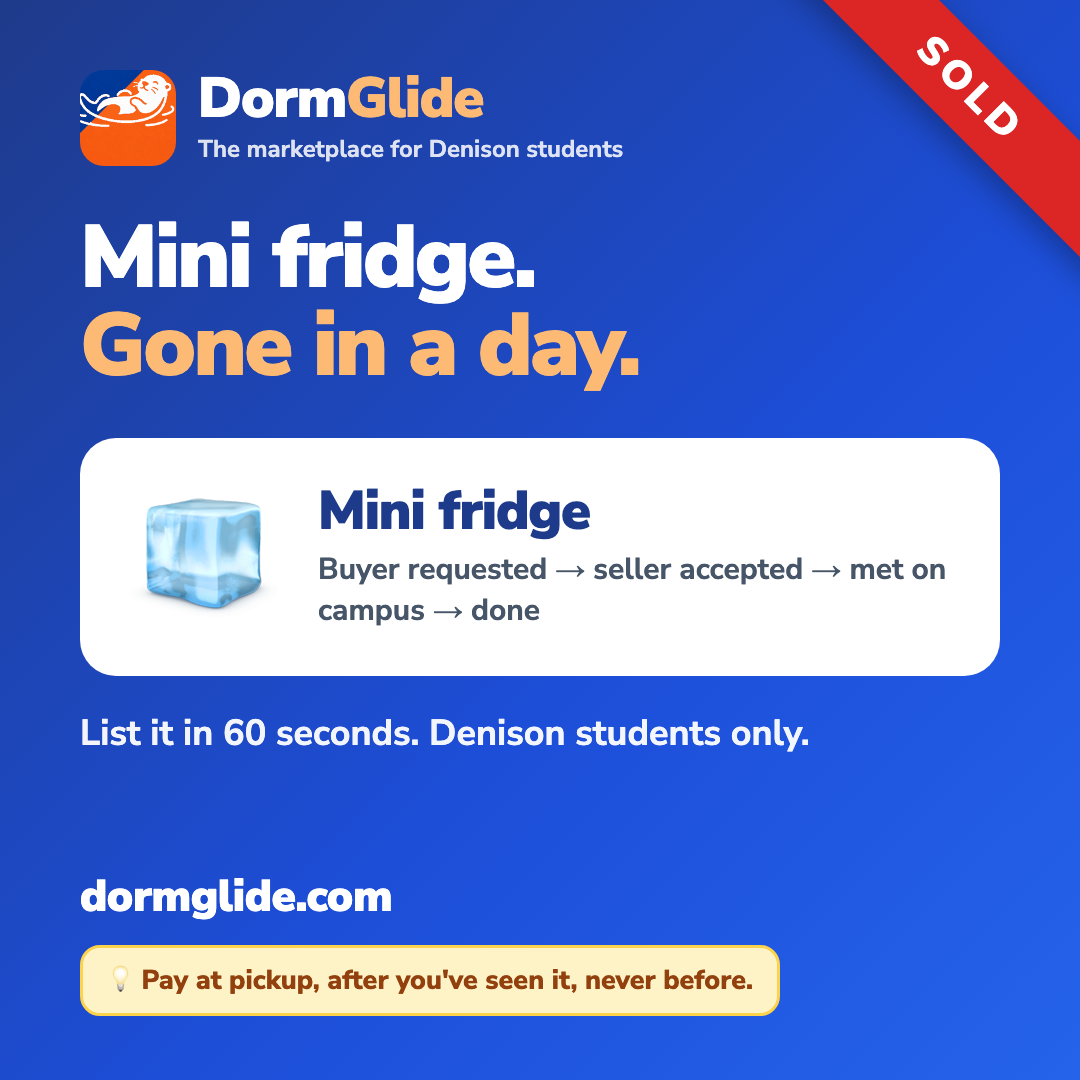
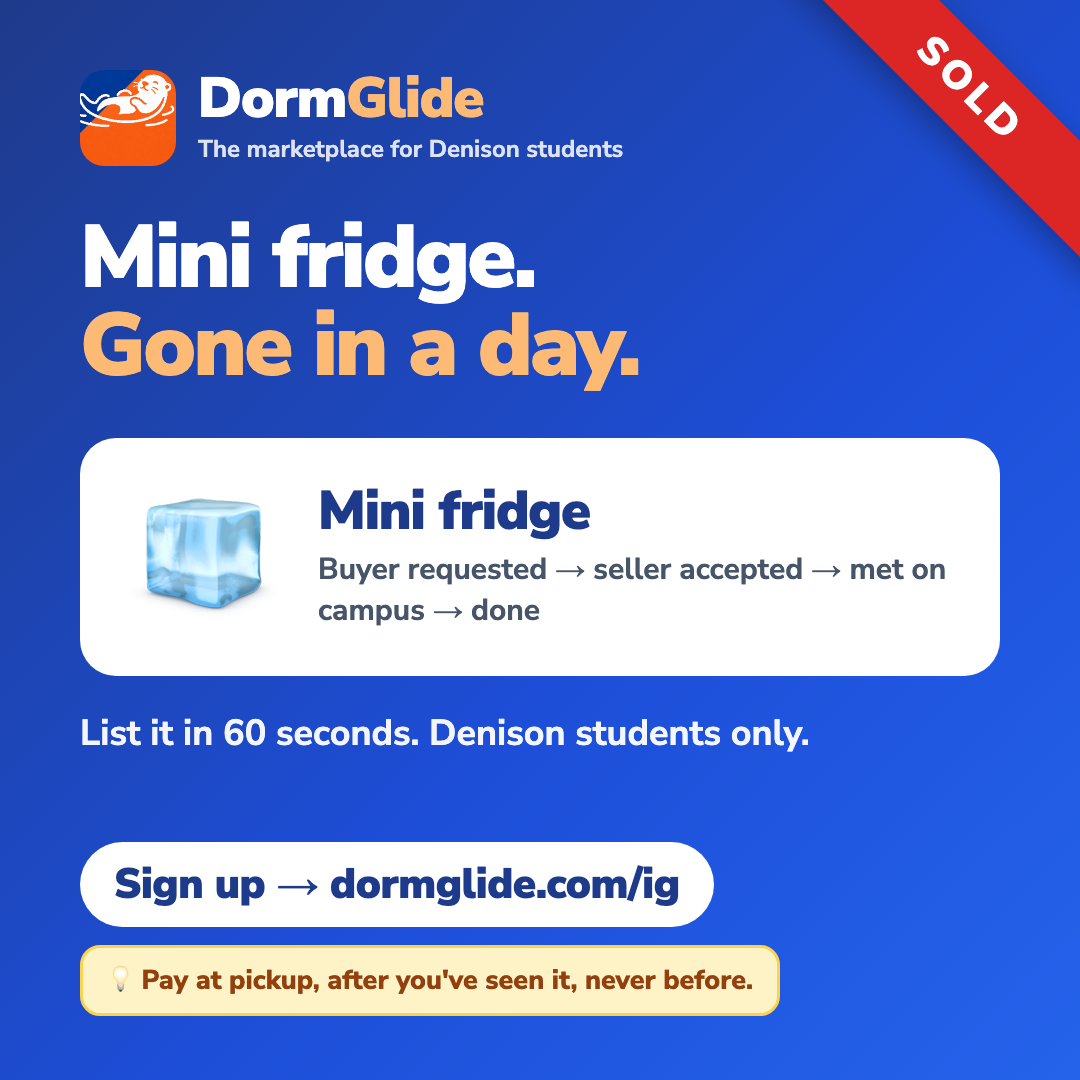
Instagram: short sign-up link dormglide.com/ig on every image; drop 'link in bio'

Changed region(s): [[0.0611, 0.7639, 0.6722, 0.8556]]

diff --git a/marketing/instagram/stories/s2-how-it-works.html b/marketing/instagram/stories/s2-how-it-works.html
@@ -20,8 +20,8 @@ p.lead{font-size:42px;line-height:1.32;font-weight:700;margin:44px 0 0;opacity:.
 .ribbon{position:absolute;top:120px;right:-130px;width:520px;transform:rotate(45deg);background:#dc2626;color:#fff;text-align:center;font-size:44px;font-weight:900;letter-spacing:.12em;padding:16px 0;box-shadow:0 10px 30px rgba(0,0,0,.3)}
 .otter{position:absolute;right:60px;top:560px;width:460px;filter:drop-shadow(0 12px 30px rgba(0,0,0,.25))}
 .bottom{margin-top:auto;display:flex;flex-direction:column;gap:22px}
-.cta{background:#fff;color:#1e3a8a;border-radius:999px;padding:30px 44px;font-size:44px;font-weight:900;text-align:center;letter-spacing:-.01em}
+.cta{background:#fff;color:#1e3a8a;border-radius:999px;padding:30px 44px;font-size:60px;font-weight:900;text-align:center;letter-spacing:-.01em}
 .orange .cta{color:#c2410c}
-.url{font-size:40px;font-weight:800;text-align:center;opacity:.95}
+.url{font-size:34px;font-weight:800;text-align:center;opacity:.95}
 .rule{background:#fef3c7;color:#92400e;border:3px solid #fcd34d;border-radius:22px;padding:18px 26px;font-size:30px;font-weight:800;text-align:center}
-</style></head><body><div class="story"><div class="top"><img src="otter-mark.png"><div><div class="wm">Dorm<em>Glide</em></div><div class="tag">The marketplace for Denison students</div></div></div><h1>How it works.<br><span>Three steps.</span></h1><div class="steps"><div class="step"><div class="n">1</div><div class="t">Sign up with your @denison.edu email</div></div><div class="step"><div class="n">2</div><div class="t">Post it, or set a Wishlist alert for what you need</div></div><div class="step"><div class="n">3</div><div class="t">Chat, meet on campus, pay at pickup</div></div></div><div class="bottom"><div class="cta">Try it now ↗</div><div class="url">dormglide.com · link in bio</div><div class="rule">💡 Pay at pickup, after you've seen it, never before.</div></div></div></body></html>
+</style></head><body><div class="story"><div class="top"><img src="otter-mark.png"><div><div class="wm">Dorm<em>Glide</em></div><div class="tag">The marketplace for Denison students</div></div></div><h1>How it works.<br><span>Three steps.</span></h1><div class="steps"><div class="step"><div class="n">1</div><div class="t">Sign up with your @denison.edu email</div></div><div class="step"><div class="n">2</div><div class="t">Post it, or set a Wishlist alert for what you need</div></div><div class="step"><div class="n">3</div><div class="t">Chat, meet on campus, pay at pickup</div></div></div><div class="bottom"><div class="cta">dormglide.com/ig</div><div class="url">Type it in your browser. Takes one minute.</div><div class="rule">💡 Pay at pickup, after you've seen it, never before.</div></div></div></body></html>

diff --git a/marketing/instagram/stories/s4-glyde.html b/marketing/instagram/stories/s4-glyde.html
@@ -20,8 +20,8 @@ p.lead{font-size:42px;line-height:1.32;font-weight:700;margin:44px 0 0;opacity:.
 .ribbon{position:absolute;top:120px;right:-130px;width:520px;transform:rotate(45deg);background:#dc2626;color:#fff;text-align:center;font-size:44px;font-weight:900;letter-spacing:.12em;padding:16px 0;box-shadow:0 10px 30px rgba(0,0,0,.3)}
 .otter{position:absolute;right:60px;top:560px;width:460px;filter:drop-shadow(0 12px 30px rgba(0,0,0,.25))}
 .bottom{margin-top:auto;display:flex;flex-direction:column;gap:22px}
-.cta{background:#fff;color:#1e3a8a;border-radius:999px;padding:30px 44px;font-size:44px;font-weight:900;text-align:center;letter-spacing:-.01em}
+.cta{background:#fff;color:#1e3a8a;border-radius:999px;padding:30px 44px;font-size:60px;font-weight:900;text-align:center;letter-spacing:-.01em}
 .orange .cta{color:#c2410c}
-.url{font-size:40px;font-weight:800;text-align:center;opacity:.95}
+.url{font-size:34px;font-weight:800;text-align:center;opacity:.95}
 .rule{background:#fef3c7;color:#92400e;border:3px solid #fcd34d;border-radius:22px;padding:18px 26px;font-size:30px;font-weight:800;text-align:center}
-</style></head><body><div class="story orange"><div class="top"><img src="otter-mark.png"><div><div class="wm">Dorm<em>Glide</em></div><div class="tag">Glyde · skills, by students</div></div></div><h1>Need a hand?<br><span>Book a student.</span></h1><div class="steps"><div class="step"><div class="n">🚚</div><div class="t">Move-in &amp; move-out help</div></div><div class="step"><div class="n">📚</div><div class="t">Tutoring · Rides · Food &amp; drink · Hair</div></div><div class="step"><div class="n">✨</div><div class="t">Or offer your skill and get paid</div></div></div><div class="bottom"><div class="cta">Open Glyde ↗</div><div class="url">dormglide.com · link in bio</div><div class="rule">💡 Switch to Glyde inside the app.</div></div></div></body></html>
+</style></head><body><div class="story orange"><div class="top"><img src="otter-mark.png"><div><div class="wm">Dorm<em>Glide</em></div><div class="tag">Glyde · skills, by students</div></div></div><h1>Need a hand?<br><span>Book a student.</span></h1><div class="steps"><div class="step"><div class="n">🚚</div><div class="t">Move-in &amp; move-out help</div></div><div class="step"><div class="n">📚</div><div class="t">Tutoring · Rides · Food &amp; drink · Hair</div></div><div class="step"><div class="n">✨</div><div class="t">Or offer your skill and get paid</div></div></div><div class="bottom"><div class="cta">dormglide.com/ig</div><div class="url">Type it in your browser. Takes one minute.</div><div class="rule">💡 Switch to Glyde inside the app.</div></div></div></body></html>

diff --git a/marketing/instagram/stories/s5-wishlist.html b/marketing/instagram/stories/s5-wishlist.html
@@ -20,8 +20,8 @@ p.lead{font-size:42px;line-height:1.32;font-weight:700;margin:44px 0 0;opacity:.
 .ribbon{position:absolute;top:120px;right:-130px;width:520px;transform:rotate(45deg);background:#dc2626;color:#fff;text-align:center;font-size:44px;font-weight:900;letter-spacing:.12em;padding:16px 0;box-shadow:0 10px 30px rgba(0,0,0,.3)}
 .otter{position:absolute;right:60px;top:560px;width:460px;filter:drop-shadow(0 12px 30px rgba(0,0,0,.25))}
 .bottom{margin-top:auto;display:flex;flex-direction:column;gap:22px}
-.cta{background:#fff;color:#1e3a8a;border-radius:999px;padding:30px 44px;font-size:44px;font-weight:900;text-align:center;letter-spacing:-.01em}
+.cta{background:#fff;color:#1e3a8a;border-radius:999px;padding:30px 44px;font-size:60px;font-weight:900;text-align:center;letter-spacing:-.01em}
 .orange .cta{color:#c2410c}
-.url{font-size:40px;font-weight:800;text-align:center;opacity:.95}
+.url{font-size:34px;font-weight:800;text-align:center;opacity:.95}
 .rule{background:#fef3c7;color:#92400e;border:3px solid #fcd34d;border-radius:22px;padding:18px 26px;font-size:30px;font-weight:800;text-align:center}
-</style></head><body><div class="story"><div class="top"><img src="otter-mark.png"><div><div class="wm">Dorm<em>Glide</em></div><div class="tag">The marketplace for Denison students</div></div></div><h1>Looking for<br><span>something?</span></h1><p class="lead">Set a Wishlist alert. The moment a matching item is posted, we email you. First come, first served. 🔔</p><div class="steps"><div class="step"><div class="n">🔔</div><div class="t">Wishlist → Add alert → "mini fridge under $50"</div></div></div><div class="bottom"><div class="cta">Set an alert ↗</div><div class="url">dormglide.com · link in bio</div><div class="rule">💡 Pay at pickup, after you've seen it, never before.</div></div></div></body></html>
+</style></head><body><div class="story"><div class="top"><img src="otter-mark.png"><div><div class="wm">Dorm<em>Glide</em></div><div class="tag">The marketplace for Denison students</div></div></div><h1>Looking for<br><span>something?</span></h1><p class="lead">Set a Wishlist alert. The moment a matching item is posted, we email you. First come, first served. 🔔</p><div class="steps"><div class="step"><div class="n">🔔</div><div class="t">Wishlist → Add alert → "mini fridge under $50"</div></div></div><div class="bottom"><div class="cta">dormglide.com/ig</div><div class="url">Type it in your browser. Takes one minute.</div><div class="rule">💡 Pay at pickup, after you've seen it, never before.</div></div></div></body></html>

diff --git a/marketing/instagram/stories/s1-what-is-dormglide.html b/marketing/instagram/stories/s1-what-is-dormglide.html
@@ -20,8 +20,8 @@ p.lead{font-size:42px;line-height:1.32;font-weight:700;margin:44px 0 0;opacity:.
 .ribbon{position:absolute;top:120px;right:-130px;width:520px;transform:rotate(45deg);background:#dc2626;color:#fff;text-align:center;font-size:44px;font-weight:900;letter-spacing:.12em;padding:16px 0;box-shadow:0 10px 30px rgba(0,0,0,.3)}
 .otter{position:absolute;right:70px;top:1090px;width:430px;filter:drop-shadow(0 12px 30px rgba(0,0,0,.25))}
 .bottom{margin-top:auto;display:flex;flex-direction:column;gap:22px}
-.cta{background:#fff;color:#1e3a8a;border-radius:999px;padding:30px 44px;font-size:44px;font-weight:900;text-align:center;letter-spacing:-.01em}
+.cta{background:#fff;color:#1e3a8a;border-radius:999px;padding:30px 44px;font-size:60px;font-weight:900;text-align:center;letter-spacing:-.01em}
 .orange .cta{color:#c2410c}
-.url{font-size:40px;font-weight:800;text-align:center;opacity:.95}
+.url{font-size:34px;font-weight:800;text-align:center;opacity:.95}
 .rule{background:#fef3c7;color:#92400e;border:3px solid #fcd34d;border-radius:22px;padding:18px 26px;font-size:30px;font-weight:800;text-align:center}
-</style></head><body><div class="story"><div class="top"><img src="otter-mark.png"><div><div class="wm">Dorm<em>Glide</em></div><div class="tag">The marketplace for Denison students</div></div></div><img class="otter" src="otter-hero-white.png"><h1>Your campus.<br>Your stuff.<br><span>Your skills.</span></h1><p class="lead">Buy &amp; sell dorm stuff with Denison students. Book tutors, rides, and move-in help. Free, no fees, campus only.</p><div class="bottom"><div class="cta">Sign up in 60 seconds ↗</div><div class="url">dormglide.com · link in bio</div><div class="rule">💡 Pay at pickup, after you've seen it, never before.</div></div></div></body></html>
+</style></head><body><div class="story"><div class="top"><img src="otter-mark.png"><div><div class="wm">Dorm<em>Glide</em></div><div class="tag">The marketplace for Denison students</div></div></div><img class="otter" src="otter-hero-white.png"><h1>Your campus.<br>Your stuff.<br><span>Your skills.</span></h1><p class="lead">Buy &amp; sell dorm stuff with Denison students. Book tutors, rides, and move-in help. Free, no fees, campus only.</p><div class="bottom"><div class="cta">dormglide.com/ig</div><div class="url">Type it in your browser. Takes one minute.</div><div class="rule">💡 Pay at pickup, after you've seen it, never before.</div></div></div></body></html>

diff --git a/marketing/instagram/stories/s3-sold-ac.html b/marketing/instagram/stories/s3-sold-ac.html
@@ -20,8 +20,8 @@ p.lead{font-size:42px;line-height:1.32;font-weight:700;margin:44px 0 0;opacity:.
 .ribbon{position:absolute;top:120px;right:-130px;width:520px;transform:rotate(45deg);background:#dc2626;color:#fff;text-align:center;font-size:44px;font-weight:900;letter-spacing:.12em;padding:16px 0;box-shadow:0 10px 30px rgba(0,0,0,.3)}
 .otter{position:absolute;right:60px;top:560px;width:460px;filter:drop-shadow(0 12px 30px rgba(0,0,0,.25))}
 .bottom{margin-top:auto;display:flex;flex-direction:column;gap:22px}
-.cta{background:#fff;color:#1e3a8a;border-radius:999px;padding:30px 44px;font-size:44px;font-weight:900;text-align:center;letter-spacing:-.01em}
+.cta{background:#fff;color:#1e3a8a;border-radius:999px;padding:30px 44px;font-size:60px;font-weight:900;text-align:center;letter-spacing:-.01em}
 .orange .cta{color:#c2410c}
-.url{font-size:40px;font-weight:800;text-align:center;opacity:.95}
+.url{font-size:34px;font-weight:800;text-align:center;opacity:.95}
 .rule{background:#fef3c7;color:#92400e;border:3px solid #fcd34d;border-radius:22px;padding:18px 26px;font-size:30px;font-weight:800;text-align:center}
-</style></head><body><div class="story"><div class="top"><img src="otter-mark.png"><div><div class="wm">Dorm<em>Glide</em></div><div class="tag">The marketplace for Denison students</div></div></div><div class="ribbon">SOLD</div><h1>It's already<br><span>working.</span></h1><div class="sold"><img src="ac.jpg"><div><div class="name">Window AC unit</div><div class="meta">Listed · picked up on campus · paid at pickup</div></div></div><div class="bottom"><div class="cta">List yours free ↗</div><div class="url">dormglide.com · link in bio</div><div class="rule">💡 Free to use. No fees, ever.</div></div></div></body></html>
+</style></head><body><div class="story"><div class="top"><img src="otter-mark.png"><div><div class="wm">Dorm<em>Glide</em></div><div class="tag">The marketplace for Denison students</div></div></div><div class="ribbon">SOLD</div><h1>It's already<br><span>working.</span></h1><div class="sold"><img src="ac.jpg"><div><div class="name">Window AC unit</div><div class="meta">Listed · picked up on campus · paid at pickup</div></div></div><div class="bottom"><div class="cta">dormglide.com/ig</div><div class="url">Type it in your browser. Takes one minute.</div><div class="rule">💡 Free to use. No fees, ever.</div></div></div></body></html>

diff --git a/marketing/instagram/01-how-it-works.html b/marketing/instagram/01-how-it-works.html
@@ -23,7 +23,7 @@ p.lead { font-size:36px; line-height:1.35; font-weight:700; margin:34px 0 0; max
 .sold .meta { font-size:30px; font-weight:700; color:#475569; margin-top:10px; }
 .ribbon { position:absolute; top:48px; right:-120px; width:460px; transform:rotate(45deg); background:#dc2626; color:#fff; text-align:center; font-size:40px; font-weight:900; letter-spacing:.12em; padding:14px 0; box-shadow:0 10px 30px rgba(0,0,0,.3); }
 .bottom { margin-top:auto; padding-top:28px; display:flex; flex-direction:column; align-items:flex-start; gap:18px; }
-.url { font-size:44px; font-weight:900; letter-spacing:-0.01em; }
+.url { font-size:42px; font-weight:900; letter-spacing:-0.01em; background:#fff; color:#1e3a8a; border-radius:999px; padding:14px 34px; } .orange .url { color:#c2410c; }
 .rule { background:#fef3c7; color:#92400e; border:3px solid #fcd34d; border-radius:20px; padding:14px 24px; font-size:27px; font-weight:800; }
 .otter { position:absolute; right:60px; top:230px; width:380px; opacity:.95; filter:drop-shadow(0 12px 30px rgba(0,0,0,.25)); }
 </style></head><body><div class="post"><div class="top"><img src="otter-mark.png"><div><div class="wm">Dorm<em>Glide</em></div><div class="tag">The marketplace for Denison students</div></div></div><h1>How it works.<br><span>Three steps.</span></h1>
@@ -31,4 +31,4 @@ p.lead { font-size:36px; line-height:1.35; font-weight:700; margin:34px 0 0; max
    <div class="step"><div class="n">1</div><div class="t">Sign up with your @denison.edu email</div></div>
    <div class="step"><div class="n">2</div><div class="t">Post it, or set a Wishlist alert for what you need</div></div>
    <div class="step"><div class="n">3</div><div class="t">Chat, meet on campus, pay at pickup</div></div>
-   </div><div class="bottom"><div class="url">dormglide.com</div><div class="rule">💡 Pay at pickup, after you've seen it, never before.</div></div></div></body></html>
+   </div><div class="bottom"><div class="url">Sign up → dormglide.com/ig</div><div class="rule">💡 Pay at pickup, after you've seen it, never before.</div></div></div></body></html>

diff --git a/marketing/instagram/05-glyde.html b/marketing/instagram/05-glyde.html
@@ -23,7 +23,7 @@ p.lead { font-size:36px; line-height:1.35; font-weight:700; margin:34px 0 0; max
 .sold .meta { font-size:30px; font-weight:700; color:#475569; margin-top:10px; }
 .ribbon { position:absolute; top:48px; right:-120px; width:460px; transform:rotate(45deg); background:#dc2626; color:#fff; text-align:center; font-size:40px; font-weight:900; letter-spacing:.12em; padding:14px 0; box-shadow:0 10px 30px rgba(0,0,0,.3); }
 .bottom { margin-top:auto; padding-top:28px; display:flex; flex-direction:column; align-items:flex-start; gap:18px; }
-.url { font-size:44px; font-weight:900; letter-spacing:-0.01em; }
+.url { font-size:42px; font-weight:900; letter-spacing:-0.01em; background:#fff; color:#1e3a8a; border-radius:999px; padding:14px 34px; } .orange .url { color:#c2410c; }
 .rule { background:#fef3c7; color:#92400e; border:3px solid #fcd34d; border-radius:20px; padding:14px 24px; font-size:27px; font-weight:800; }
 .otter { position:absolute; right:60px; top:230px; width:380px; opacity:.95; filter:drop-shadow(0 12px 30px rgba(0,0,0,.25)); }
 </style></head><body><div class="post orange"><div class="top"><img src="otter-mark.png"><div><div class="wm">Dorm<em>Glide</em></div><div class="tag">Glyde · skills, by students</div></div></div><h1>Need a hand?<br><span>Book a student.</span></h1>
@@ -31,4 +31,4 @@ p.lead { font-size:36px; line-height:1.35; font-weight:700; margin:34px 0 0; max
    <div class="step"><div class="n">🚚</div><div class="t">Move-in &amp; move-out help</div></div>
    <div class="step"><div class="n">📚</div><div class="t">Tutoring · Rides · Food &amp; drink</div></div>
    <div class="step"><div class="n">✨</div><div class="t">Or offer your own skill and get paid</div></div>
-   </div><div class="bottom"><div class="url">dormglide.com</div><div class="rule">💡 Switch to Glyde inside the app.</div></div></div></body></html>
+   </div><div class="bottom"><div class="url">Sign up → dormglide.com/ig</div><div class="rule">💡 Switch to Glyde inside the app.</div></div></div></body></html>

diff --git a/marketing/instagram/04-sold-apple-pencil.html b/marketing/instagram/04-sold-apple-pencil.html
@@ -23,9 +23,9 @@ p.lead { font-size:34px; line-height:1.3; font-weight:700; margin:26px 0 0; max-
 .sold .meta { font-size:30px; font-weight:700; color:#475569; margin-top:10px; }
 .ribbon { position:absolute; top:48px; right:-120px; width:460px; transform:rotate(45deg); background:#dc2626; color:#fff; text-align:center; font-size:40px; font-weight:900; letter-spacing:.12em; padding:14px 0; box-shadow:0 10px 30px rgba(0,0,0,.3); }
 .bottom { margin-top:auto; padding-top:28px; display:flex; flex-direction:column; align-items:flex-start; gap:18px; }
-.url { font-size:44px; font-weight:900; letter-spacing:-0.01em; }
+.url { font-size:42px; font-weight:900; letter-spacing:-0.01em; background:#fff; color:#1e3a8a; border-radius:999px; padding:14px 34px; } .orange .url { color:#c2410c; }
 .rule { background:#fef3c7; color:#92400e; border:3px solid #fcd34d; border-radius:20px; padding:14px 24px; font-size:27px; font-weight:800; }
 .otter { position:absolute; right:60px; top:230px; width:380px; opacity:.95; filter:drop-shadow(0 12px 30px rgba(0,0,0,.25)); }
 </style></head><body><div class="post"><div class="top"><img src="otter-mark.png"><div><div class="wm">Dorm<em>Glide</em></div><div class="tag">The marketplace for Denison students</div></div></div><div class="ribbon">SOLD</div><h1>Small stuff<br><span>sells too.</span></h1>
    <div class="sold"><img class="photo" src="apple-pencil.jpg"><div><div class="name">Apple Pencil</div><div class="meta">Sold by a Denison student to a Denison student</div></div></div>
-   <p class="lead">Textbooks, chargers, lamps, calculators. If you're done with it, someone isn't.</p><div class="bottom"><div class="url">dormglide.com</div><div class="rule">💡 Free to use. No fees, ever.</div></div></div></body></html>
+   <p class="lead">Textbooks, chargers, lamps, calculators. If you're done with it, someone isn't.</p><div class="bottom"><div class="url">Sign up → dormglide.com/ig</div><div class="rule">💡 Free to use. No fees, ever.</div></div></div></body></html>

diff --git a/marketing/instagram/03-sold-fridge.html b/marketing/instagram/03-sold-fridge.html
@@ -23,9 +23,9 @@ p.lead { font-size:36px; line-height:1.35; font-weight:700; margin:34px 0 0; max
 .sold .meta { font-size:30px; font-weight:700; color:#475569; margin-top:10px; }
 .ribbon { position:absolute; top:48px; right:-120px; width:460px; transform:rotate(45deg); background:#dc2626; color:#fff; text-align:center; font-size:40px; font-weight:900; letter-spacing:.12em; padding:14px 0; box-shadow:0 10px 30px rgba(0,0,0,.3); }
 .bottom { margin-top:auto; padding-top:28px; display:flex; flex-direction:column; align-items:flex-start; gap:18px; }
-.url { font-size:44px; font-weight:900; letter-spacing:-0.01em; }
+.url { font-size:42px; font-weight:900; letter-spacing:-0.01em; background:#fff; color:#1e3a8a; border-radius:999px; padding:14px 34px; } .orange .url { color:#c2410c; }
 .rule { background:#fef3c7; color:#92400e; border:3px solid #fcd34d; border-radius:20px; padding:14px 24px; font-size:27px; font-weight:800; }
 .otter { position:absolute; right:60px; top:230px; width:380px; opacity:.95; filter:drop-shadow(0 12px 30px rgba(0,0,0,.25)); }
 </style></head><body><div class="post"><div class="top"><img src="otter-mark.png"><div><div class="wm">Dorm<em>Glide</em></div><div class="tag">The marketplace for Denison students</div></div></div><div class="ribbon">SOLD</div><h1>Mini fridge.<br><span>Gone in a day.</span></h1>
    <div class="sold"><div class="g">🧊</div><div><div class="name">Mini fridge</div><div class="meta">Buyer requested → seller accepted → met on campus → done</div></div></div>
-   <p class="lead">List it in 60 seconds. Denison students only.</p><div class="bottom"><div class="url">dormglide.com</div><div class="rule">💡 Pay at pickup, after you've seen it, never before.</div></div></div></body></html>
+   <p class="lead">List it in 60 seconds. Denison students only.</p><div class="bottom"><div class="url">Sign up → dormglide.com/ig</div><div class="rule">💡 Pay at pickup, after you've seen it, never before.</div></div></div></body></html>

diff --git a/marketing/instagram/02-sold-ac.html b/marketing/instagram/02-sold-ac.html
@@ -23,9 +23,9 @@ p.lead { font-size:34px; line-height:1.3; font-weight:700; margin:26px 0 0; max-
 .sold .meta { font-size:30px; font-weight:700; color:#475569; margin-top:10px; }
 .ribbon { position:absolute; top:48px; right:-120px; width:460px; transform:rotate(45deg); background:#dc2626; color:#fff; text-align:center; font-size:40px; font-weight:900; letter-spacing:.12em; padding:14px 0; box-shadow:0 10px 30px rgba(0,0,0,.3); }
 .bottom { margin-top:auto; padding-top:28px; display:flex; flex-direction:column; align-items:flex-start; gap:18px; }
-.url { font-size:44px; font-weight:900; letter-spacing:-0.01em; }
+.url { font-size:42px; font-weight:900; letter-spacing:-0.01em; background:#fff; color:#1e3a8a; border-radius:999px; padding:14px 34px; } .orange .url { color:#c2410c; }
 .rule { background:#fef3c7; color:#92400e; border:3px solid #fcd34d; border-radius:20px; padding:14px 24px; font-size:27px; font-weight:800; }
 .otter { position:absolute; right:60px; top:230px; width:380px; opacity:.95; filter:drop-shadow(0 12px 30px rgba(0,0,0,.25)); }
 </style></head><body><div class="post"><div class="top"><img src="otter-mark.png"><div><div class="wm">Dorm<em>Glide</em></div><div class="tag">The marketplace for Denison students</div></div></div><div class="ribbon">SOLD</div><h1>It's already<br><span>working.</span></h1>
    <div class="sold"><img class="photo" src="ac.jpg"><div><div class="name">Window AC unit</div><div class="meta">Listed on DormGlide · picked up on campus · paid at pickup</div></div></div>
-   <p class="lead">Someone on campus is looking for what's sitting in your room.</p><div class="bottom"><div class="url">dormglide.com</div><div class="rule">💡 Free to use. No fees, ever.</div></div></div></body></html>
+   <p class="lead">Someone on campus is looking for what's sitting in your room.</p><div class="bottom"><div class="url">Sign up → dormglide.com/ig</div><div class="rule">💡 Free to use. No fees, ever.</div></div></div></body></html>

diff --git a/marketing/instagram/06-wishlist.html b/marketing/instagram/06-wishlist.html
@@ -23,10 +23,10 @@ p.lead { font-size:36px; line-height:1.35; font-weight:700; margin:34px 0 0; max
 .sold .meta { font-size:30px; font-weight:700; color:#475569; margin-top:10px; }
 .ribbon { position:absolute; top:48px; right:-120px; width:460px; transform:rotate(45deg); background:#dc2626; color:#fff; text-align:center; font-size:40px; font-weight:900; letter-spacing:.12em; padding:14px 0; box-shadow:0 10px 30px rgba(0,0,0,.3); }
 .bottom { margin-top:auto; padding-top:28px; display:flex; flex-direction:column; align-items:flex-start; gap:18px; }
-.url { font-size:44px; font-weight:900; letter-spacing:-0.01em; }
+.url { font-size:42px; font-weight:900; letter-spacing:-0.01em; background:#fff; color:#1e3a8a; border-radius:999px; padding:14px 34px; } .orange .url { color:#c2410c; }
 .rule { background:#fef3c7; color:#92400e; border:3px solid #fcd34d; border-radius:20px; padding:14px 24px; font-size:27px; font-weight:800; }
 .otter { position:absolute; right:60px; top:230px; width:380px; opacity:.95; filter:drop-shadow(0 12px 30px rgba(0,0,0,.25)); }
 </style></head><body><div class="post"><div class="top"><img src="otter-mark.png"><div><div class="wm">Dorm<em>Glide</em></div><div class="tag">The marketplace for Denison students</div></div></div><img class="otter" src="otter-hero-white.png"><h1>Looking for<br>something?</h1>
    <p class="lead">Set a Wishlist alert. The moment a matching item is posted, we email you. First come, first served.</p>
    <div class="steps" style="margin-top:80px"><div class="step"><div class="n">🔔</div><div class="t">Wishlist → Add alert → "mini fridge under $50"</div></div></div>
-   <div class="bottom"><div class="url">dormglide.com</div><div class="rule">💡 Pay at pickup, after you've seen it, never before.</div></div></div></body></html>
+   <div class="bottom"><div class="url">Sign up → dormglide.com/ig</div><div class="rule">💡 Pay at pickup, after you've seen it, never before.</div></div></div></body></html>

diff --git a/marketing/instagram/CAPTIONS.md b/marketing/instagram/CAPTIONS.md
@@ -4,7 +4,7 @@ Post 3x per week (Mon / Wed / Fri, ~7pm ET when students are back in dorms).
 Images are 1080×1080 PNGs in this folder; the HTML next to each one is the
 editable source (open in Chrome → change text → screenshot at 1080×1080).
 
-Always include in the caption: **dormglide.com** and the rule line.
+Always put the short link **dormglide.com/ig** in the caption AND on the image. Never say "link in bio": every extra tap loses people. (Instagram does not make caption links clickable, so the address must be short enough to type.)
 Hashtags (pick 5–8): #Denison #DenisonUniversity #DenisonStudents #Granville
 #CollegeLife #DormLife #CampusMarketplace #DormGlide #Glyde #MoveOut #MoveIn
 #Denison2027 #Denison2028 #Denison2029 #Denison2030 (class-year tags — students search these)
@@ -14,7 +14,7 @@ Hashtags (pick 5–8): #Denison #DenisonUniversity #DenisonStudents #Granville
 ## Week 1
 
 **Mon — 01-how-it-works.png**
-43 Denison students joined DormGlide at one tabling event. Here's the whole thing in three steps: sign up with your @denison.edu email, post what you're done with (or set a Wishlist alert for what you need), then chat, meet on campus, and pay at pickup. No fees, no strangers, no shipping. 🦦 dormglide.com — link in bio.
+43 Denison students joined DormGlide at one tabling event. Here's the whole thing in three steps: sign up with your @denison.edu email, post what you're done with (or set a Wishlist alert for what you need), then chat, meet on campus, and pay at pickup. No fees, no strangers, no shipping. 🦦 Sign up → dormglide.com/ig
 💡 Pay at pickup, after you've seen it, never before.
 
 **Wed — 02-sold-ac.png**
